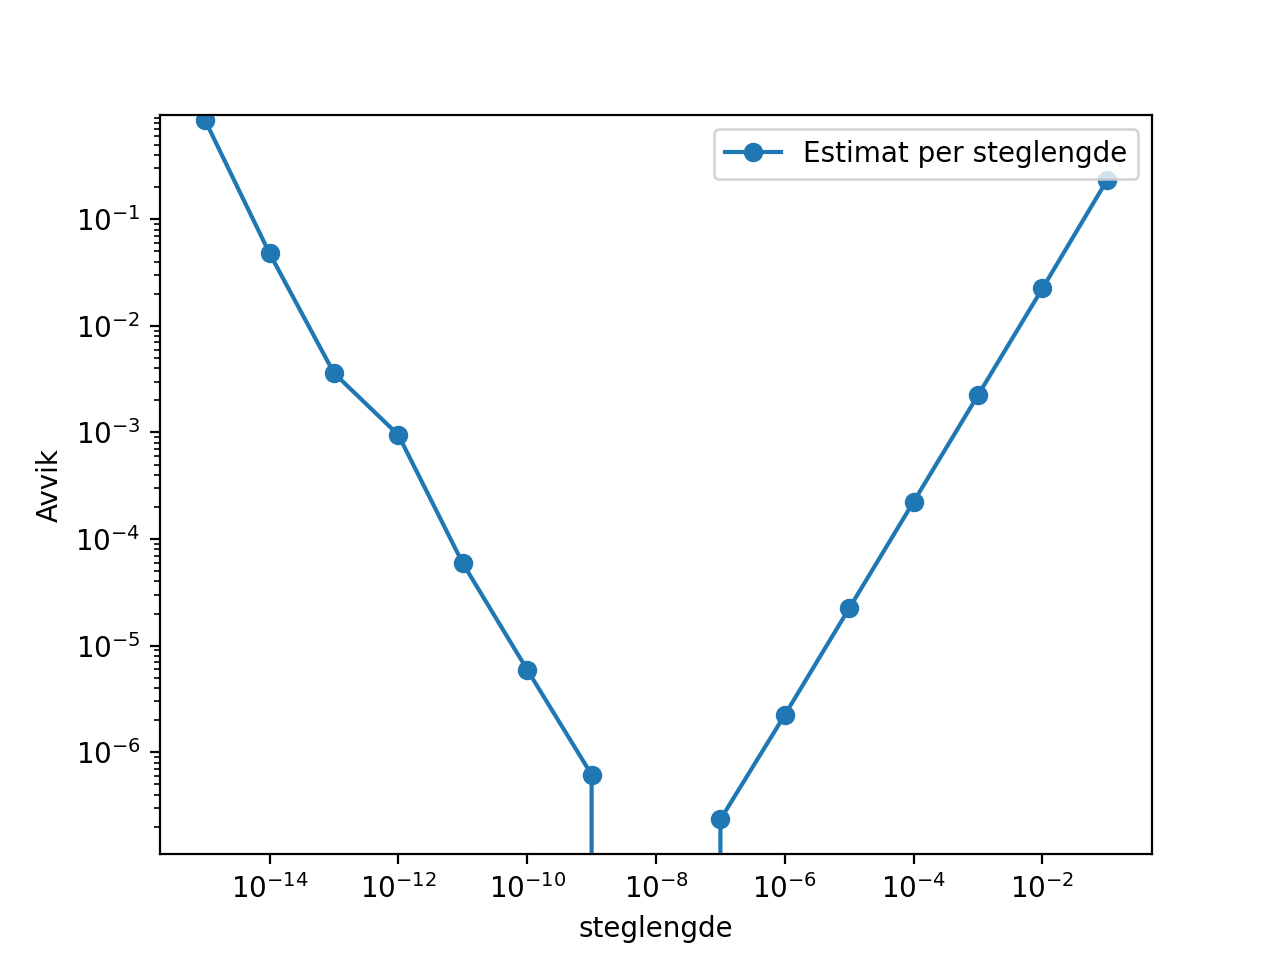
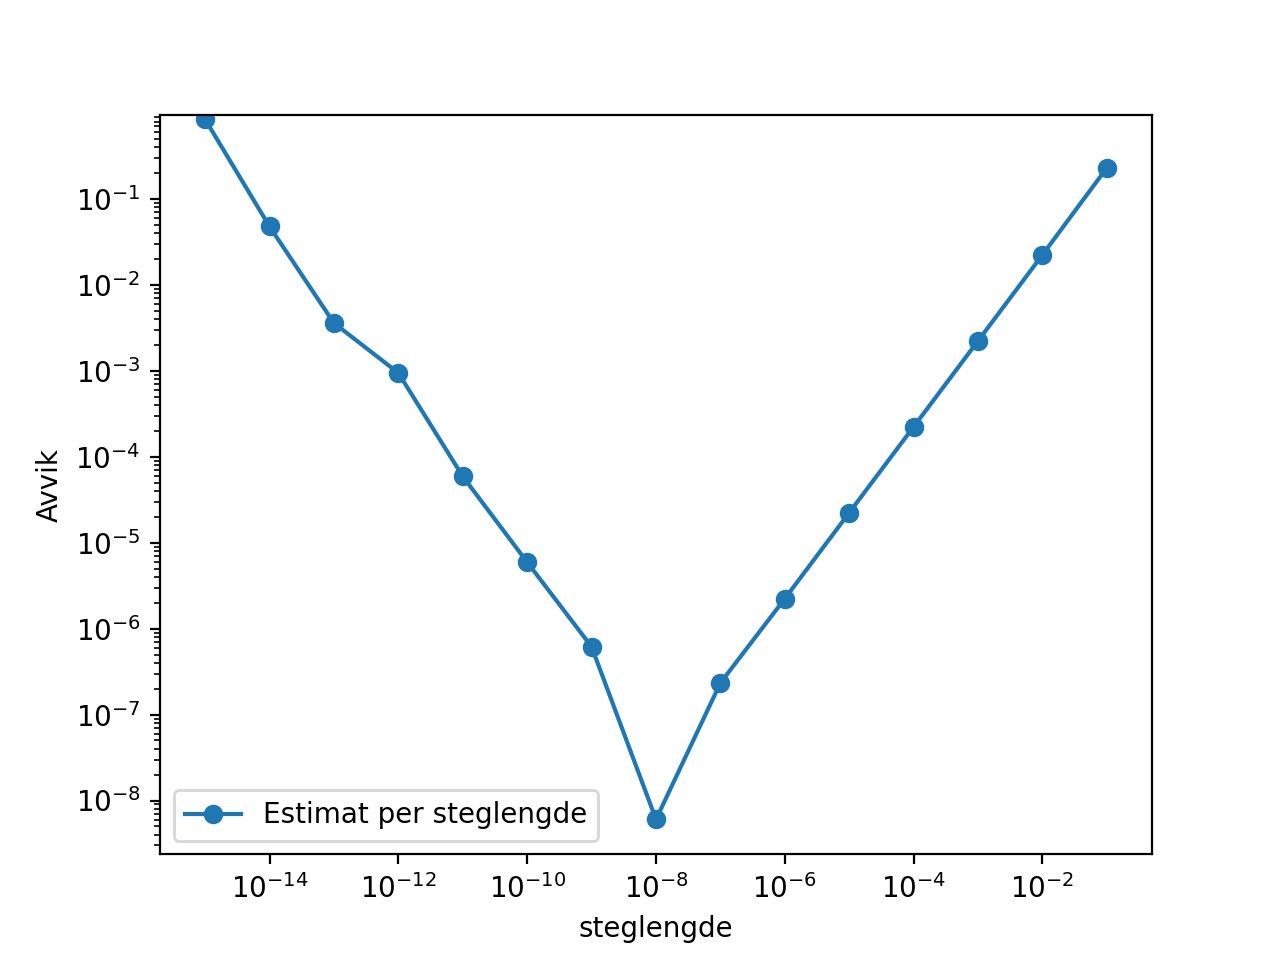
Fikset negativ verdi for logaritmisk plotting

diff --git a/oppg1.py b/oppg1.py
@@ -26,7 +26,7 @@ plt.legend()
 plt.savefig("oppg1_1", dpi=200)
 plt.show()
 
-results = [a - np.exp(1.5) for a in results]
+results = [abs(a - np.exp(1.5)) for a in results]
 print(min(results))
 
 plt.figure()
